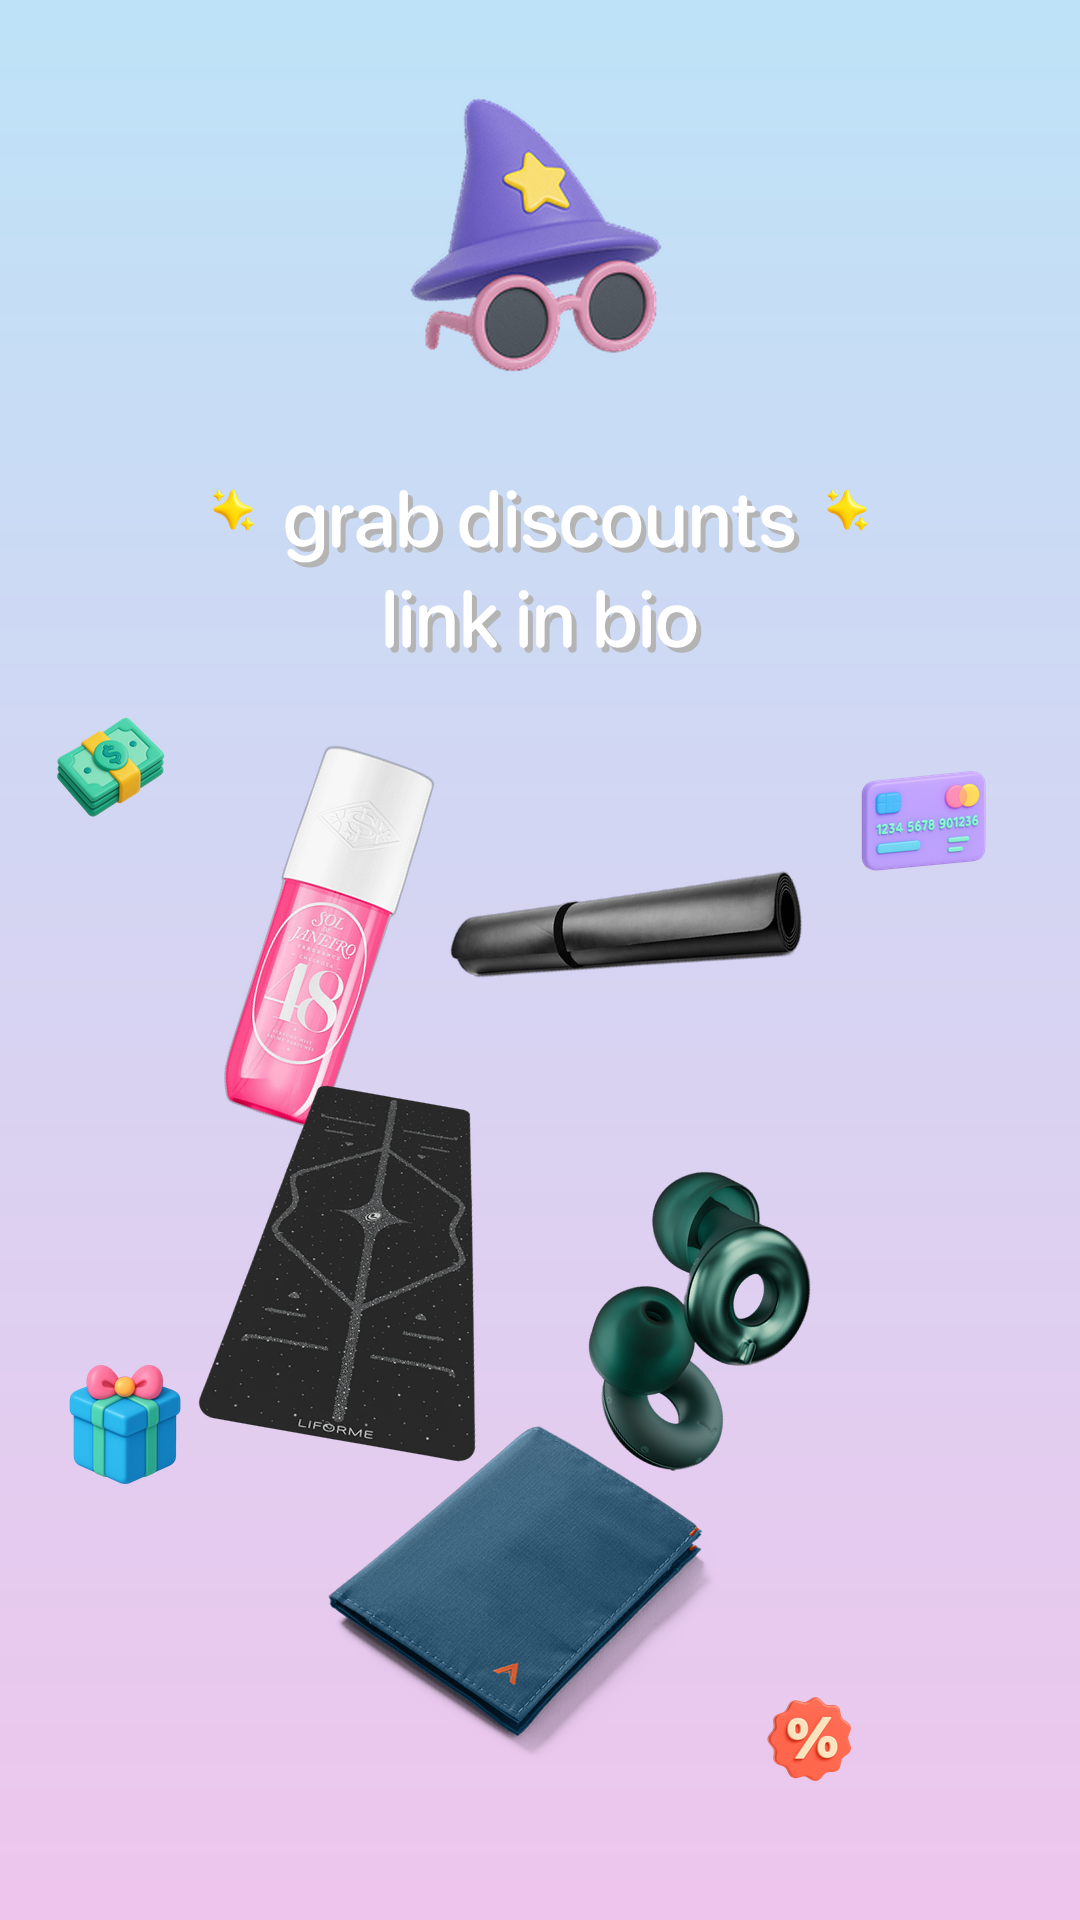
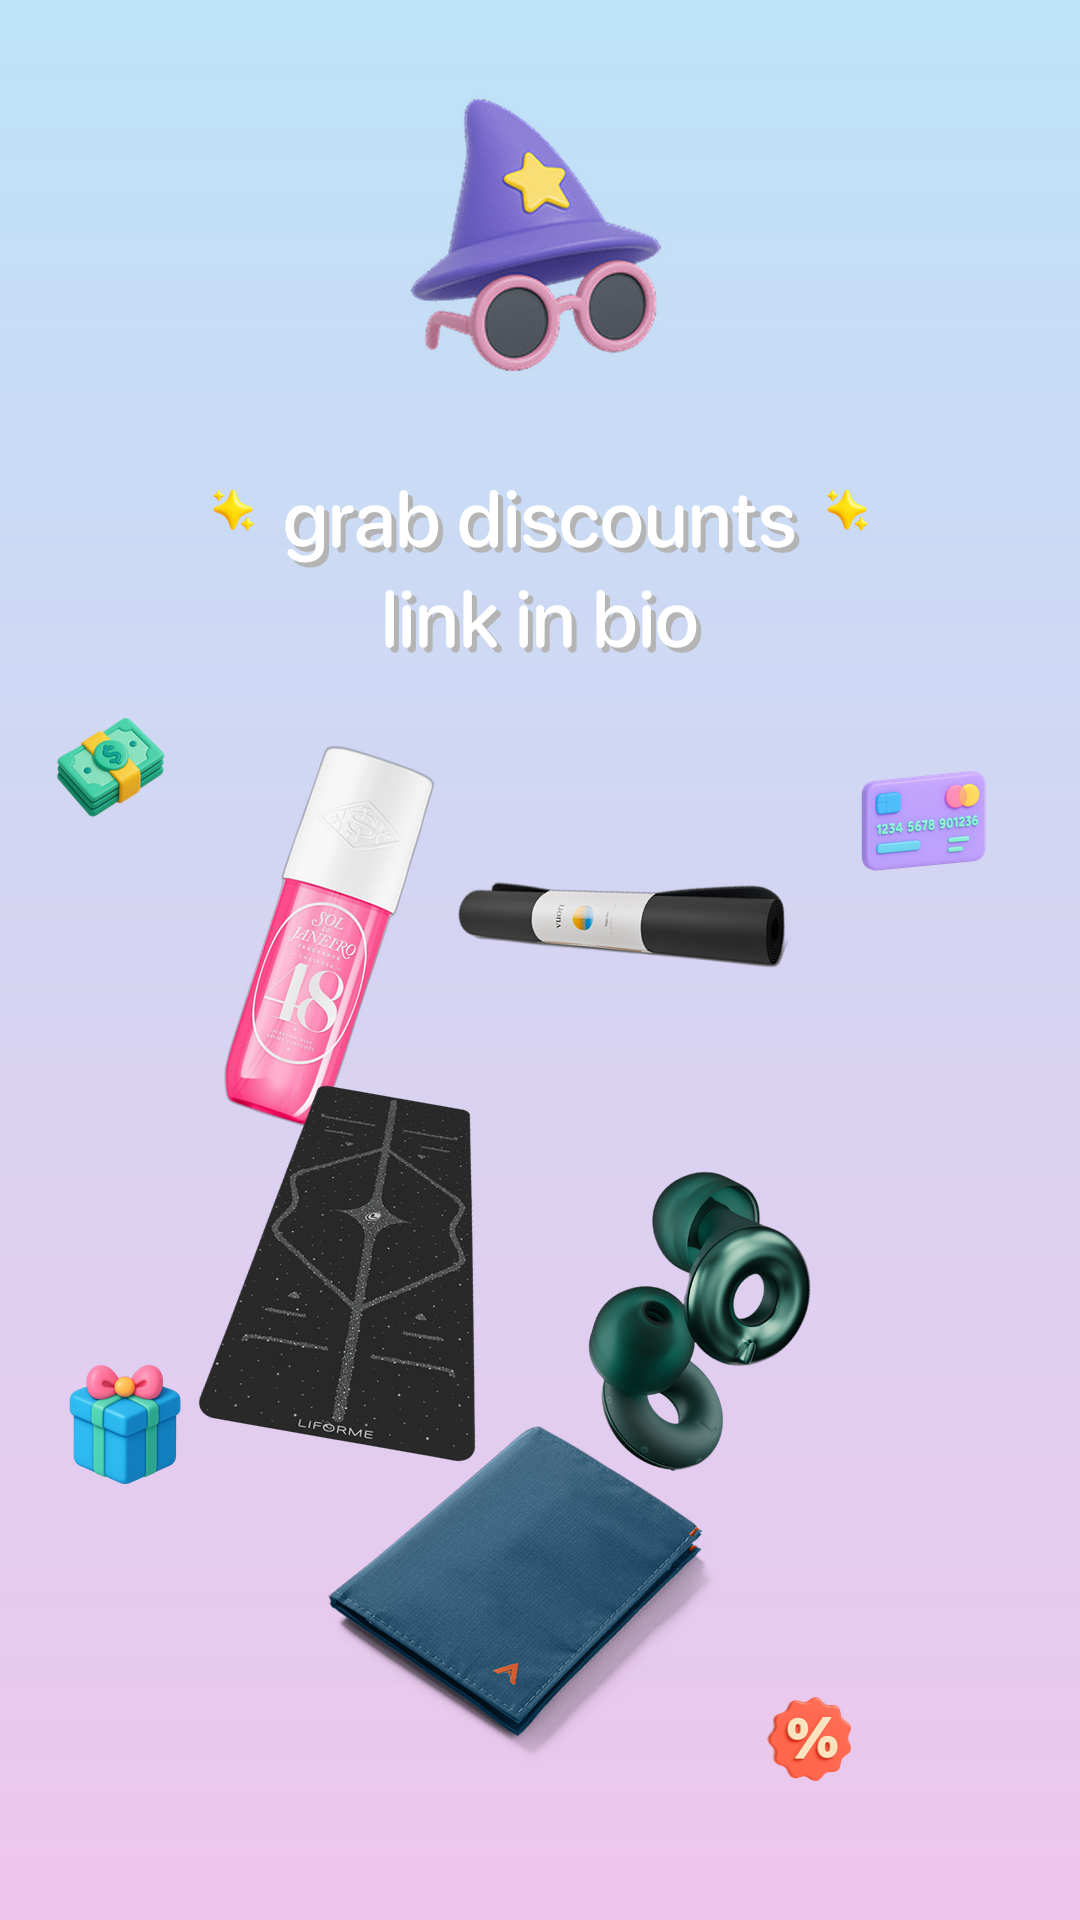
Update: Use higher quality Vuori yoga mat image across all pages
- Replaced Vuori product image with cleaner yoga mat shot
- Updated individual product image (vuori_g3f53b.png)
- Updated cover page to use new Vuori image
- Updated end page to use new Vuori image
- Hardcoded specific image URL for consistent quality

🤖 Generated with [Claude Code](https://claude.com/claude-code)

Changed region(s): [[0.3972, 0.4375, 0.7639, 0.5312]]

diff --git a/generate_cover_page.py b/generate_cover_page.py
@@ -202,9 +202,13 @@ def create_cover_page(deals, font_path):
         image_urls = deal.get('image_urls', [])
         brand = deal.get('brand', '')
         if image_urls:
-            # Use full-body view for Vuori (image 4), otherwise use first image
-            image_index = 3 if brand == 'Vuori' and len(image_urls) > 3 else 0
-            product_img = download_image(image_urls[image_index])
+            # Use specific high-quality image for Vuori
+            if brand == 'Vuori':
+                image_url = 'https://cdn.shopify.com/s/files/1/0022/4008/6074/products/V8003STY_539d9e62-f5d3-4524-ba57-0301aeafb764.jpg?v=1754073098'
+            else:
+                image_url = image_urls[0]
+
+            product_img = download_image(image_url)
             if product_img:
                 product_img = remove_background(product_img)
                 product_images.append(product_img)

diff --git a/generate_end_page.py b/generate_end_page.py
@@ -215,9 +215,13 @@ def create_end_page(deals, font_path):
         image_urls = deal.get('image_urls', [])
         brand = deal.get('brand', '')
         if image_urls:
-            # Use full-body view for Vuori (image 4), otherwise use first image
-            image_index = 3 if brand == 'Vuori' and len(image_urls) > 3 else 0
-            product_img = download_image(image_urls[image_index])
+            # Use specific high-quality image for Vuori
+            if brand == 'Vuori':
+                image_url = 'https://cdn.shopify.com/s/files/1/0022/4008/6074/products/V8003STY_539d9e62-f5d3-4524-ba57-0301aeafb764.jpg?v=1754073098'
+            else:
+                image_url = image_urls[0]
+
+            product_img = download_image(image_url)
             if product_img:
                 product_img = remove_background(product_img)
                 product_images.append(product_img)
